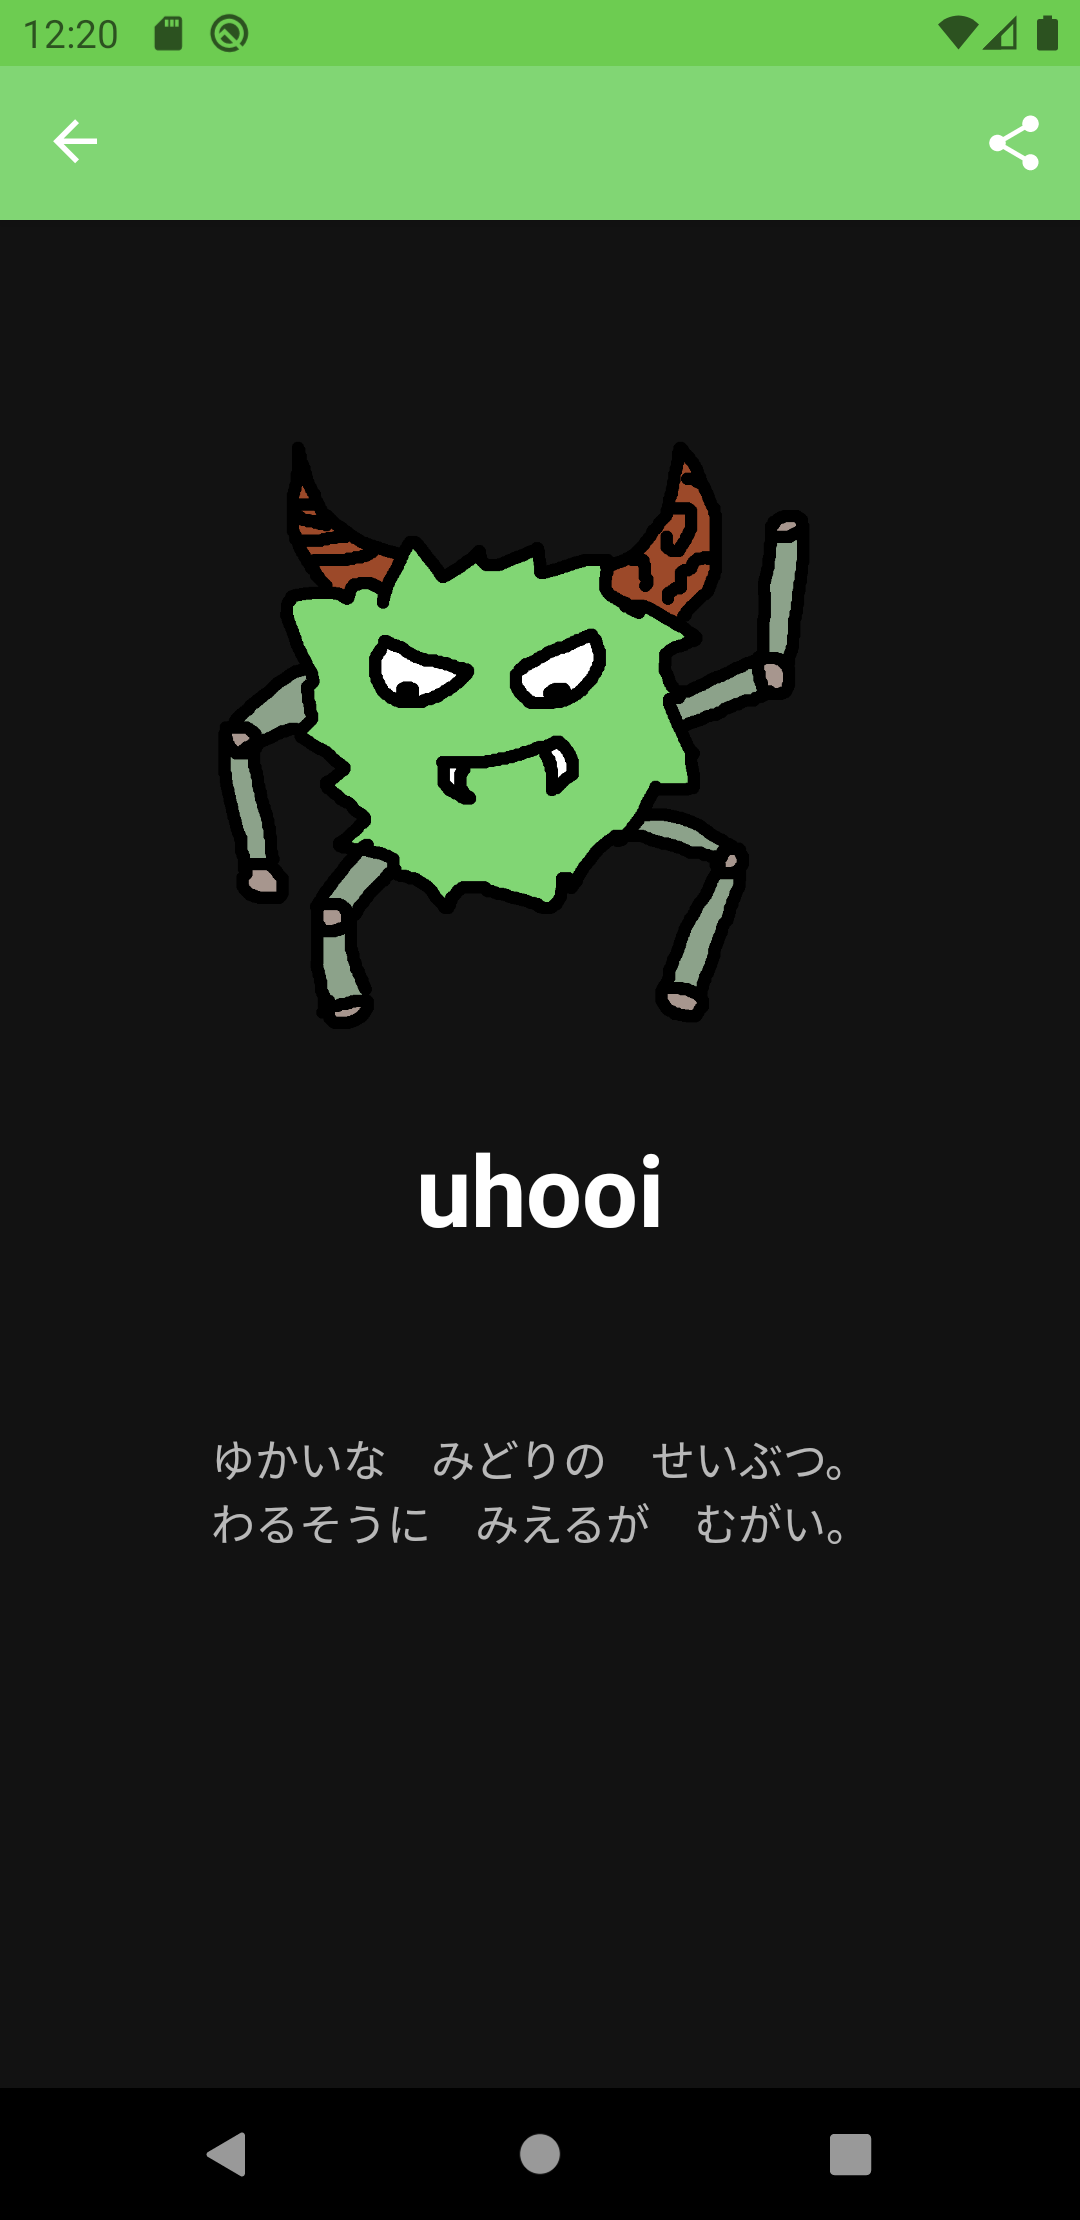
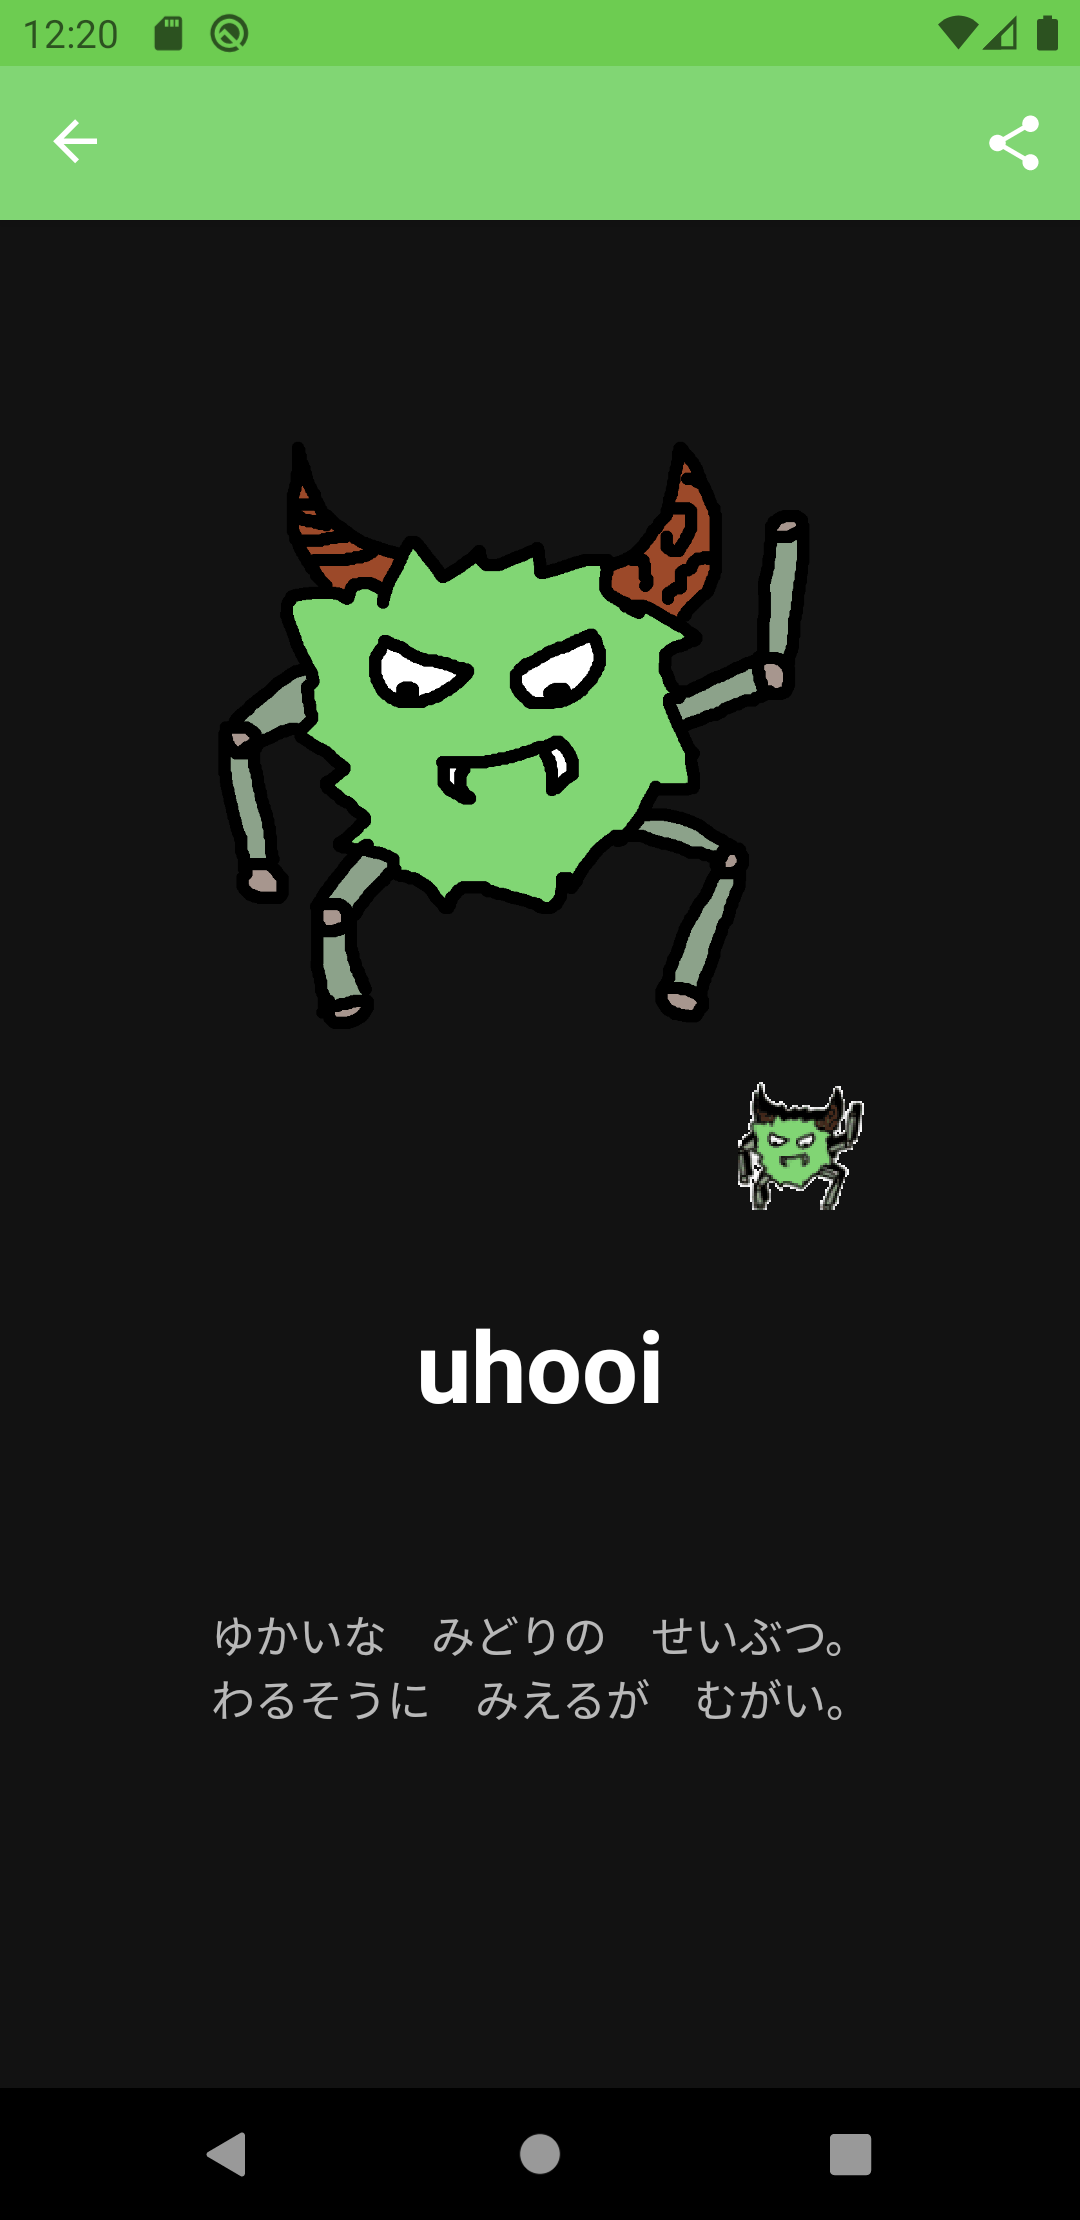
Fix README

diff --git a/README.md b/README.md
@@ -14,23 +14,23 @@ UhooiPicBook-Android is Uhooi's character book for Android.
 
 ### Light
 
-|MonsterList|Menu opened in MonsterList|MonsterDetail|
+|MonsterList|MonsterDetail|DancingMonster|
 |:--|:--|:--|
-|<img src="./docs/screenshots/pixel3a/light/monster_list.png" width="270">|<img src="./docs/screenshots/pixel3a/light/menu_opened_in_monster_list.png" width="270">|<img src="./docs/screenshots/pixel3a/light/monster_detail.png" width="270">|
+|<img src="./docs/screenshots/pixel3a/light/monster_list.png" width="270">|<img src="./docs/screenshots/pixel3a/light/monster_detail.png" width="270">|<img src="./docs/screenshots/pixel3a/light/dancing_monster.png" width="270">|
 
-|Licenses|
-|:--|
-|<img src="./docs/screenshots/pixel3a/light/oss_licenses_menu.png" width="270">|
+|Menu opened in MonsterList|Licenses|
+|:--|:--|
+|<img src="./docs/screenshots/pixel3a/light/menu_opened_in_monster_list.png" width="270">|<img src="./docs/screenshots/pixel3a/light/oss_licenses_menu.png" width="270">|
 
 ### Dark
 
-|MonsterList|Menu opened in MonsterList|MonsterDetail|
+|MonsterList|MonsterDetail|DancingMonster|
 |:--|:--|:--|
-|<img src="./docs/screenshots/pixel3a/dark/monster_list.png" width="270">|<img src="./docs/screenshots/pixel3a/dark/menu_opened_in_monster_list.png" width="270">|<img src="./docs/screenshots/pixel3a/dark/monster_detail.png" width="270">|
+|<img src="./docs/screenshots/pixel3a/dark/monster_list.png" width="270">|<img src="./docs/screenshots/pixel3a/dark/monster_detail.png" width="270">|<img src="./docs/screenshots/pixel3a/dark/dancing_monster.png" width="270">|
 
-|Licenses|
-|:--|
-|<img src="./docs/screenshots/pixel3a/dark/oss_licenses_menu.png" width="270">|
+|Menu opened in MonsterList|Licenses|
+|:--|:--|
+|<img src="./docs/screenshots/pixel3a/dark/menu_opened_in_monster_list.png" width="270">|<img src="./docs/screenshots/pixel3a/dark/oss_licenses_menu.png" width="270">|
 
 ## Development
 
